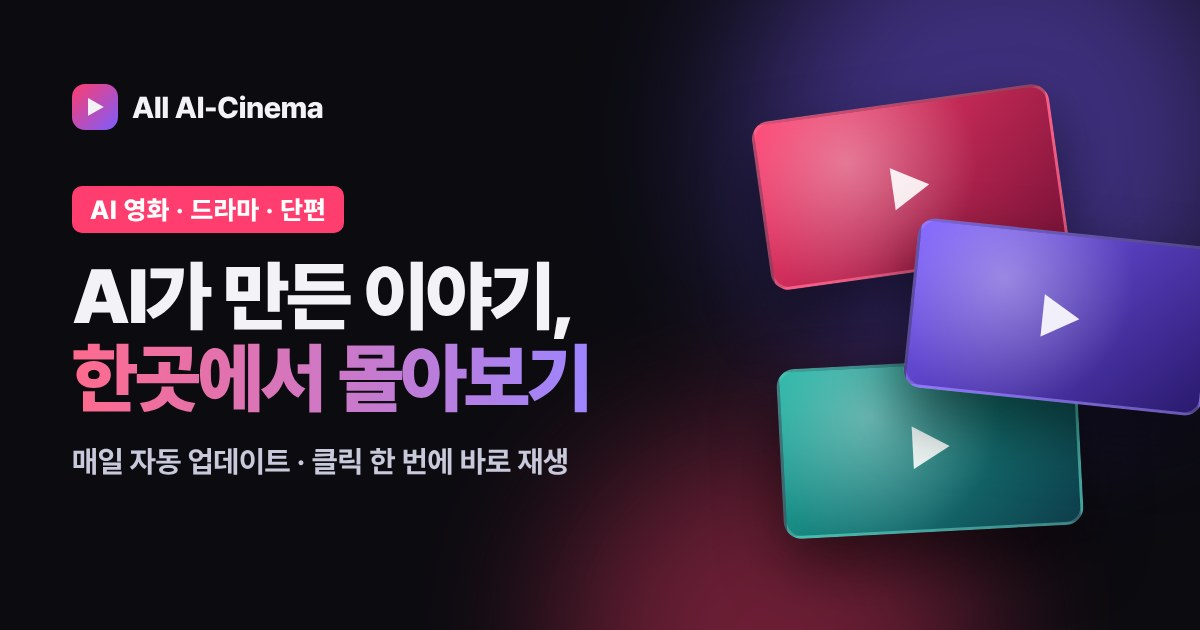
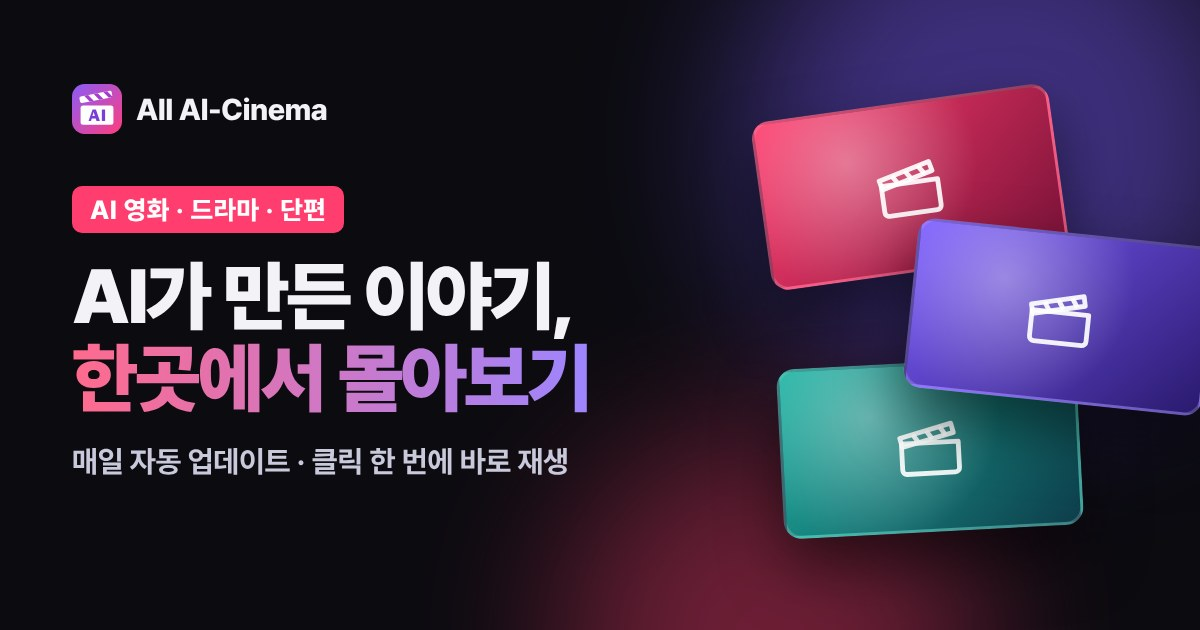
새 로고(슬레이트 AI) 적용, 파비콘·배너·공유 이미지 교체, 채널 사진 전체 적용
- 재생 버튼 모양 로고를 오리지널 슬레이트(클래퍼보드)+AI 로고로 교체 (사이트·소개·개인정보·관리자)
- 파비콘: logo.svg, favicon.ico(16/32/48), favicon-32.png, icon-192.png, apple-touch-icon.png
- 광고 배너 3장과 공유 이미지(og-image.jpg v=2)를 새 로고로 다시 제작, 재생 삼각형 아이콘 제거
- 영상 카드·플레이어·관리자 채널 카드의 채널 아이콘도 유튜브 프로필 사진으로 (못 불러오면 첫 글자)
- 관리자 CSP에 yt3 이미지 서버 허용, 에셋 버전 20261120h

Claude-Session: https://claude.ai/code/session_01DgkaVsdpXu8nWKSYNj5gJf

diff --git a/public/index.html b/public/index.html
@@ -18,8 +18,8 @@
   <meta property="og:url" content="https://all-aicinema.syncbrain100.com/" />
   <meta property="og:title" content="All AI-Cinema | AI 영화·드라마 모아보기" />
   <meta property="og:description" content="AI가 만든 영화·드라마·단편을 한곳에서. 클릭 한 번에 바로 재생해요." />
-  <meta property="og:image" content="https://all-aicinema.syncbrain100.com/og-image.jpg?v=1" />
-  <meta property="og:image:secure_url" content="https://all-aicinema.syncbrain100.com/og-image.jpg?v=1" />
+  <meta property="og:image" content="https://all-aicinema.syncbrain100.com/og-image.jpg?v=2" />
+  <meta property="og:image:secure_url" content="https://all-aicinema.syncbrain100.com/og-image.jpg?v=2" />
   <meta property="og:image:type" content="image/jpeg" />
   <meta property="og:image:width" content="1200" />
   <meta property="og:image:height" content="630" />
@@ -27,12 +27,16 @@
   <meta name="twitter:card" content="summary_large_image" />
   <meta name="twitter:title" content="All AI-Cinema | AI 영화·드라마 모아보기" />
   <meta name="twitter:description" content="AI가 만든 영화·드라마·단편을 한곳에서. 클릭 한 번에 바로 재생해요." />
-  <meta name="twitter:image" content="https://all-aicinema.syncbrain100.com/og-image.jpg?v=1" />
+  <meta name="twitter:image" content="https://all-aicinema.syncbrain100.com/og-image.jpg?v=2" />
   <meta name="google-adsense-account" content="ca-pub-8096684162493748" />
   <link rel="preconnect" href="https://i.ytimg.com" />
   <link rel="preconnect" href="https://cdn.jsdelivr.net" />
+  <link rel="icon" href="assets/logo.svg?v=1" type="image/svg+xml" />
+  <link rel="icon" href="favicon-32.png?v=1" sizes="32x32" type="image/png" />
+  <link rel="icon" href="icon-192.png?v=1" sizes="192x192" type="image/png" />
+  <link rel="apple-touch-icon" href="apple-touch-icon.png?v=1" />
   <link rel="stylesheet" href="https://cdn.jsdelivr.net/npm/pretendard@1.3.9/dist/web/variable/pretendardvariable-dynamic-subset.css" integrity="sha384-uR1wgObmx89ZQ4VVXHdzjbDJZ1PvBK01K+E3GebmaBKdZ87qRJvBWPoPbzWeEd5T" crossorigin="anonymous" referrerpolicy="no-referrer" />
-  <link rel="stylesheet" href="assets/style.css?v=20261120g" />
+  <link rel="stylesheet" href="assets/style.css?v=20261120h" />
 
   <!-- Google 태그 (Google Ads) -->
   <script async src="https://www.googletagmanager.com/gtag/js?id=AW-947429542"></script>
@@ -44,7 +48,7 @@
   <header class="topbar" id="topbar">
     <div class="topbar__inner">
       <a class="brand" href="./" aria-label="All AI-Cinema 홈">
-        <span class="brand__mark">▶</span><span class="brand__name">All AI-Cinema</span>
+        <img class="brand__mark" src="assets/logo.svg?v=1" alt="" width="30" height="30" /><span class="brand__name">All AI-Cinema</span>
       </a>
       <form class="search" role="search">
         <svg viewBox="0 0 24 24" aria-hidden="true"><path d="M10.5 3a7.5 7.5 0 0 1 5.9 12.1l4.2 4.2-1.4 1.4-4.2-4.2A7.5 7.5 0 1 1 10.5 3Zm0 2a5.5 5.5 0 1 0 0 11 5.5 5.5 0 0 0 0-11Z"/></svg>
@@ -140,6 +144,6 @@
     </div>
   </div>
 
-  <script src="assets/app.js?v=20261120g" defer></script>
+  <script src="assets/app.js?v=20261120h" defer></script>
 </body>
 </html>

diff --git a/public/admin/index.html b/public/admin/index.html
@@ -2,20 +2,24 @@
 <html lang="ko">
 <head>
   <meta charset="utf-8" />
-  <meta http-equiv="Content-Security-Policy" content="default-src 'none'; script-src 'self'; style-src 'self' https://cdn.jsdelivr.net; font-src https://cdn.jsdelivr.net; img-src 'self' https://i.ytimg.com data: blob:; connect-src 'self' https://api.github.com; base-uri 'none'; form-action 'none'" />
+  <meta http-equiv="Content-Security-Policy" content="default-src 'none'; script-src 'self'; style-src 'self' https://cdn.jsdelivr.net; font-src https://cdn.jsdelivr.net; img-src 'self' https://i.ytimg.com https://yt3.ggpht.com https://yt3.googleusercontent.com data: blob:; connect-src 'self' https://api.github.com; base-uri 'none'; form-action 'none'" />
   <meta name="referrer" content="no-referrer" />
   <meta name="robots" content="noindex, nofollow" />
   <meta name="viewport" content="width=device-width, initial-scale=1, viewport-fit=cover" />
   <title>관리자 – All AI-Cinema</title>
+  <link rel="icon" href="../assets/logo.svg?v=1" type="image/svg+xml" />
+  <link rel="icon" href="../favicon-32.png?v=1" sizes="32x32" type="image/png" />
+  <link rel="icon" href="../icon-192.png?v=1" sizes="192x192" type="image/png" />
+  <link rel="apple-touch-icon" href="../apple-touch-icon.png?v=1" />
   <link rel="stylesheet" href="https://cdn.jsdelivr.net/npm/pretendard@1.3.9/dist/web/variable/pretendardvariable-dynamic-subset.css" integrity="sha384-uR1wgObmx89ZQ4VVXHdzjbDJZ1PvBK01K+E3GebmaBKdZ87qRJvBWPoPbzWeEd5T" crossorigin="anonymous" referrerpolicy="no-referrer" />
-  <link rel="stylesheet" href="../assets/style.css?v=20261120e" />
-  <link rel="stylesheet" href="admin.css?v=20261120e" />
+  <link rel="stylesheet" href="../assets/style.css?v=20261120h" />
+  <link rel="stylesheet" href="admin.css?v=20261120h" />
 </head>
 <body>
   <header class="topbar adm-top">
     <div class="topbar__inner">
       <a class="brand" href="../" aria-label="사이트로 돌아가기">
-        <span class="brand__mark">▶</span><span class="brand__name">All AI-Cinema</span>
+        <img class="brand__mark" src="../assets/logo.svg?v=1" alt="" width="30" height="30" /><span class="brand__name">All AI-Cinema</span>
       </a>
       <span class="adm-badge">관리자</span>
       <div class="adm-head-right">
@@ -156,6 +160,6 @@
   </main>
 
   <div id="toast" class="adm-toast" role="status" aria-live="polite" hidden></div>
-  <script src="admin.js?v=20261120e" defer></script>
+  <script src="admin.js?v=20261120h" defer></script>
 </body>
 </html>

diff --git a/public/about.html b/public/about.html
@@ -1,13 +1,14 @@
 <!doctype html><html lang="ko"><head><meta charset="utf-8">
   <meta http-equiv="Content-Security-Policy" content="object-src 'none'; base-uri 'self'; form-action 'self'; script-src 'self' https: 'unsafe-eval'; script-src-attr 'none'; upgrade-insecure-requests" />
   <meta name="referrer" content="strict-origin-when-cross-origin" /><meta name="viewport" content="width=device-width,initial-scale=1"><title>소개 – All AI-Cinema</title>
+<link rel="icon" href="assets/logo.svg?v=1" type="image/svg+xml" /><link rel="icon" href="favicon-32.png?v=1" sizes="32x32" type="image/png" /><link rel="icon" href="icon-192.png?v=1" sizes="192x192" type="image/png" /><link rel="apple-touch-icon" href="apple-touch-icon.png?v=1" />
 <link rel="stylesheet" href="https://cdn.jsdelivr.net/npm/pretendard@1.3.9/dist/web/variable/pretendardvariable-dynamic-subset.css" integrity="sha384-uR1wgObmx89ZQ4VVXHdzjbDJZ1PvBK01K+E3GebmaBKdZ87qRJvBWPoPbzWeEd5T" crossorigin="anonymous" referrerpolicy="no-referrer" /><link rel="stylesheet" href="assets/style.css?v=20261120b">
 <!-- Google 태그 (Google Ads) -->
   <script async src="https://www.googletagmanager.com/gtag/js?id=AW-947429542"></script>
   <script src="assets/gtag-init.js?v=20261120c"></script>
 <script async src="https://pagead2.googlesyndication.com/pagead/js/adsbygoogle.js?client=ca-pub-8096684162493748" crossorigin="anonymous"></script>
 <style>.doc{max-width:760px;margin:0 auto;padding:32px var(--gutter) 60px}.doc h1{font-size:28px}.doc h2{font-size:18px;margin-top:28px}.doc p,.doc li{color:#c8c8d6}</style></head>
-<body><header class="topbar"><div class="topbar__inner"><a class="brand" href="./"><span class="brand__mark">▶</span><span class="brand__name">All AI-Cinema</span></a></div></header>
+<body><header class="topbar"><div class="topbar__inner"><a class="brand" href="./"><img class="brand__mark" src="assets/logo.svg?v=1" alt="" width="30" height="30" /><span class="brand__name">All AI-Cinema</span></a></div></header>
 <main class="doc"><h1>All AI-Cinema 소개</h1>
 <p>All AI-Cinema는 생성형 AI로 제작된 영화, 드라마, 단편 영상을 유튜브에서 찾아 장르·국가·채널별로 모아 보여주는 큐레이션 사이트입니다. 등록된 채널에 새 영상이 올라오면 자동으로 목록에 추가됩니다.</p>
 <h2>영상 저작권</h2>

diff --git a/public/assets/app.js b/public/assets/app.js
@@ -159,9 +159,9 @@
     return v ? state.avatars[v.cid] : "";
   }
   // 채널 아이콘: 프로필 사진이 있으면 사진, 없거나 못 불러오면 첫 글자
-  function avatarHtml(name) {
-    const url = avatarOf(name);
-    return `<span class="chtab__av" aria-hidden="true">${esc(name.trim()[0] || "?")}` +
+  function avatarHtml(name, cls = "chtab__av", cid = "") {
+    const url = (cid && state.avatars[cid]) || avatarOf(name);
+    return `<span class="${cls}" aria-hidden="true">${esc(String(name || "?").trim()[0] || "?")}` +
       (url ? `<img src="${esc(url)}" alt="" loading="lazy" decoding="async" referrerpolicy="no-referrer" width="26" height="26" />` : "") + `</span>`;
   }
 
@@ -326,7 +326,7 @@
         <img loading="lazy" decoding="async" src="${thumb(v.id, "mqdefault")}" width="320" height="180" alt="" />
       </div>
       <div class="card__body">
-        <span class="avatar" aria-hidden="true">${esc((v.channel || "?").trim()[0] || "?")}</span>
+        ${avatarHtml(v.channel, "avatar", v.cid)}
         <div><h3>${esc(v.title)}</h3><p>${esc(v.channel)}</p>
         <p>${v.views ? "조회수 " + fmtViews(v.views) + " · " : ""}${ago(v.published)}</p></div>
       </div></a>`;
@@ -388,7 +388,7 @@
     document.body.classList.add("locked");
 
     $("#pTitle").textContent = v.title;
-    $("#pChannel").textContent = v.channel;
+    $("#pChannel").innerHTML = avatarHtml(v.channel, "avatar avatar--sm", v.cid) + `<span>${esc(v.channel)}</span>`;
     $("#pMeta").textContent = [v.views && "조회수 " + fmtViews(v.views), ago(v.published)].filter(Boolean).join(" · ");
     // 원본 영상·채널 링크 (저작자 표시)
     $("#pYoutube").href = `https://www.youtube.com/watch?v=${v.id}`;
@@ -491,7 +491,7 @@
       apply();
     });
     // 프로필 사진을 못 불러오면 사진만 지우고 첫 글자를 보여줌 (인라인 onerror는 보안 정책상 사용 안 함)
-    $("#chs").addEventListener("error", (e) => { if (e.target.tagName === "IMG") e.target.remove(); }, true);
+    document.addEventListener("error", (e) => { if (e.target.tagName === "IMG" && e.target.parentElement?.matches(".avatar, .chtab__av")) e.target.remove(); }, true);
     $("#chs").addEventListener("click", (e) => {
       const t = e.target.closest(".chtab");
       if (!t) return;

diff --git a/public/privacy.html b/public/privacy.html
@@ -1,13 +1,14 @@
 <!doctype html><html lang="ko"><head><meta charset="utf-8">
   <meta http-equiv="Content-Security-Policy" content="object-src 'none'; base-uri 'self'; form-action 'self'; script-src 'self' https: 'unsafe-eval'; script-src-attr 'none'; upgrade-insecure-requests" />
   <meta name="referrer" content="strict-origin-when-cross-origin" /><meta name="viewport" content="width=device-width,initial-scale=1"><title>개인정보처리방침 – All AI-Cinema</title>
+<link rel="icon" href="assets/logo.svg?v=1" type="image/svg+xml" /><link rel="icon" href="favicon-32.png?v=1" sizes="32x32" type="image/png" /><link rel="icon" href="icon-192.png?v=1" sizes="192x192" type="image/png" /><link rel="apple-touch-icon" href="apple-touch-icon.png?v=1" />
 <link rel="stylesheet" href="https://cdn.jsdelivr.net/npm/pretendard@1.3.9/dist/web/variable/pretendardvariable-dynamic-subset.css" integrity="sha384-uR1wgObmx89ZQ4VVXHdzjbDJZ1PvBK01K+E3GebmaBKdZ87qRJvBWPoPbzWeEd5T" crossorigin="anonymous" referrerpolicy="no-referrer" /><link rel="stylesheet" href="assets/style.css?v=20261120b">
 <!-- Google 태그 (Google Ads) -->
   <script async src="https://www.googletagmanager.com/gtag/js?id=AW-947429542"></script>
   <script src="assets/gtag-init.js?v=20261120c"></script>
 <script async src="https://pagead2.googlesyndication.com/pagead/js/adsbygoogle.js?client=ca-pub-8096684162493748" crossorigin="anonymous"></script>
 <style>.doc{max-width:760px;margin:0 auto;padding:32px var(--gutter) 60px}.doc h1{font-size:28px}.doc h2{font-size:18px;margin-top:28px}.doc p,.doc li{color:#c8c8d6}</style></head>
-<body><header class="topbar"><div class="topbar__inner"><a class="brand" href="./"><span class="brand__mark">▶</span><span class="brand__name">All AI-Cinema</span></a></div></header>
+<body><header class="topbar"><div class="topbar__inner"><a class="brand" href="./"><img class="brand__mark" src="assets/logo.svg?v=1" alt="" width="30" height="30" /><span class="brand__name">All AI-Cinema</span></a></div></header>
 <main class="doc"><h1>개인정보처리방침</h1>
 <p>All AI-Cinema(이하 "사이트")는 회원가입을 받지 않으며 이름, 연락처 등 개인을 알아볼 수 있는 정보를 직접 수집하지 않습니다.</p>
 <h2>쿠키 및 광고 (Google AdSense)</h2><ul>

diff --git a/public/assets/style.css b/public/assets/style.css
@@ -20,7 +20,7 @@ button,input,select{font:inherit;color:inherit}
 .topbar--hidden{transform:translateY(-100%)}
 .topbar__inner{max-width:1600px;margin:0 auto;display:flex;align-items:center;gap:16px;padding:12px var(--gutter)}
 .brand{display:flex;align-items:center;gap:8px;text-decoration:none;font-weight:800;font-size:20px;letter-spacing:-.02em;white-space:nowrap}
-.brand__mark{display:grid;place-items:center;width:30px;height:30px;border-radius:9px;background:linear-gradient(135deg,var(--accent),var(--accent2));font-size:13px}
+.brand__mark{display:block;width:30px;height:30px;flex:none;border-radius:9px}
 .search{flex:1;max-width:520px;margin-left:auto;display:flex;align-items:center;gap:8px;background:var(--bg2);border:1px solid var(--line);border-radius:999px;padding:0 14px;height:42px}
 .search:focus-within{border-color:var(--accent2)}
 .search svg{width:18px;height:18px;fill:var(--muted);flex:none}
@@ -201,3 +201,9 @@ select{background:var(--bg2);border:1px solid var(--line);border-radius:10px;pad
 /* 채널 프로필 사진 (없으면 첫 글자 동그라미) */
 .chtab__av{position:relative;overflow:hidden;flex:none}
 .chtab__av img{position:absolute;inset:0;width:100%;height:100%;object-fit:cover;border-radius:50%;background:var(--bg2)}
+
+/* 영상 카드·플레이어의 채널 아이콘도 프로필 사진 사용 */
+.avatar{position:relative;overflow:hidden}
+.avatar img{position:absolute;inset:0;width:100%;height:100%;object-fit:cover;border-radius:50%;background:var(--bg2)}
+.player__sub #pChannel{display:inline-flex;align-items:center;gap:8px}
+.avatar--sm{width:26px;height:26px;font-size:12px}

diff --git a/public/admin/admin.js b/public/admin/admin.js
@@ -260,6 +260,13 @@
       views: Number(x[5]) || 0,
       manual: x[8] === 1,
     }));
+    // 채널 이름 → 유튜브 프로필 사진 (yt3 주소만)
+    state.avatarByName = new Map();
+    const av = d.avatars && typeof d.avatars === "object" ? d.avatars : {};
+    for (const x of items) {
+      const name = clean(d.channels?.[x?.[2]], 80), u = av[d.cids?.[x?.[7]]];
+      if (name && !state.avatarByName.has(name) && typeof u === "string" && /^https:\/\/yt3\.(?:ggpht|googleusercontent)\.com\/[\w\-./=~%]{10,500}$/.test(u)) state.avatarByName.set(name, u);
+    }
     const live = new Set(state.videos.map((v) => v.id));
     for (const id of state.pending) if (!live.has(id)) state.pending.delete(id);
   }
@@ -445,7 +452,12 @@
       const url = clean(c.url || (c.id ? `https://www.youtube.com/channel/${c.id}` : ""), 200);
       list.append(el("li", { class: "adm-chcard" },
         el("div", { class: "adm-chhead" },
-          el("span", { class: "chtab__av", "aria-hidden": "true", text: label.replace(/^@/, "")[0] || "?" }),
+          (() => {
+            const avEl = el("span", { class: "chtab__av", "aria-hidden": "true", text: label.replace(/^@/, "")[0] || "?" });
+            const u = state.avatarByName?.get(name0) || state.avatarByName?.get(label);
+            if (u) { const im = el("img", { src: u, alt: "", loading: "lazy", referrerpolicy: "no-referrer" }); im.addEventListener("error", () => im.remove()); avEl.append(im); }
+            return avEl;
+          })(),
           el("div", { class: "adm-chinfo" },
             el("b", { text: label }),
             el("div", { class: "meta" },
